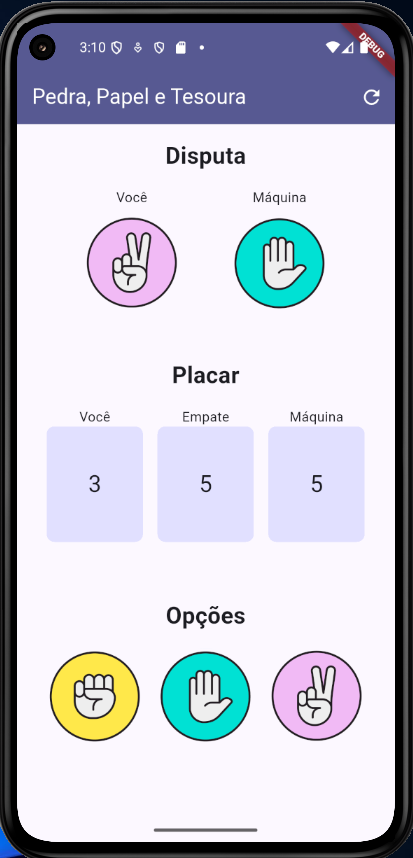
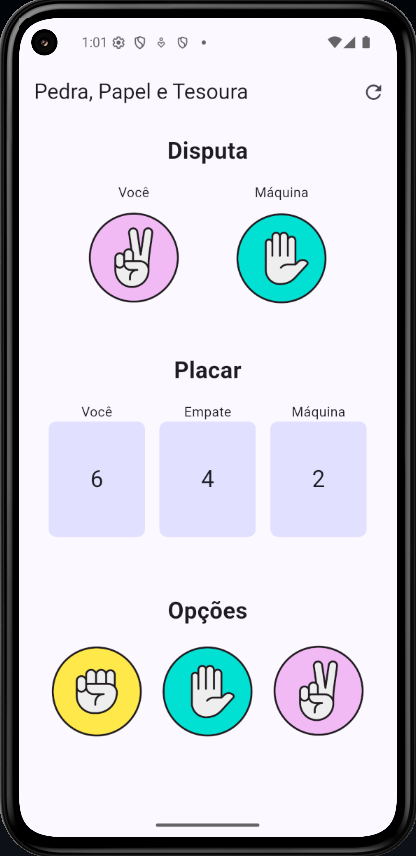
add text into game options and new screenshot

diff --git a/lib/widgets/game_options.dart b/lib/widgets/game_options.dart
@@ -9,20 +9,29 @@ class GameOptions extends StatelessWidget {
 
   @override
   Widget build(BuildContext context) {
-    return Row(
-      mainAxisAlignment: MainAxisAlignment.spaceEvenly,
-      children: options.map((option) {
-        return GestureDetector(
-          onTap: () => onPlay(option),
-          child: Image.asset(
-            'assets/images/$option.png',
-            width: 100,
-            height: 100,
-            errorBuilder: (context, error, stackTrace) =>
-                const Icon(Icons.question_mark, size: 80),
-          ),
-        );
-      }).toList(),
+    return Column(
+      children: [
+        const Text(
+          'Opções',
+          style: TextStyle(fontSize: 24, fontWeight: FontWeight.bold),
+        ),
+        const SizedBox(height: 16),
+        Row(
+          mainAxisAlignment: MainAxisAlignment.spaceEvenly,
+          children: options.map((option) {
+            return GestureDetector(
+              onTap: () => onPlay(option),
+              child: Image.asset(
+                'assets/images/$option.png',
+                width: 100,
+                height: 100,
+                errorBuilder: (context, error, stackTrace) =>
+                    const Icon(Icons.question_mark, size: 80),
+              ),
+            );
+          }).toList(),
+        ),
+      ],
     );
   }
 }
